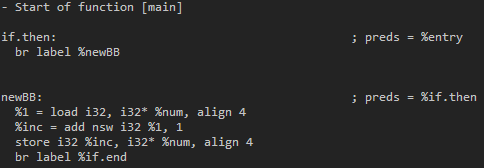
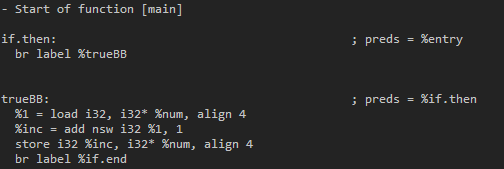
add

diff --git a/_posts/2020-08-28-15.md b/_posts/2020-08-28-15.md
@@ -30,54 +30,108 @@ int main()
 }
 ```
 
-여기서 저번에 만든 출력 path를 이용하여 basicblock을 살펴보면
+여기서 저번에 만든 출력 path를 이용하여 BasicBlock을 살펴보면
 
 ![img](\images\15_01.png)
 
-다음과 같이 Entry/if.then/if.end 로 나뉘는 것을 볼 수 있다.
+다음과 같이 Entry/if.then/if.end의 BasicBlock으로 나뉘는 것을 볼 수 있다.
 
-이러한 코드를 opaque을 이용하여 control flow에 대한 난독화를 해 볼 것이다.
+이러한 코드에 opaque을 이용한 control flow 난독화를 적용하는 path를 만들어 볼 것이다.
 
 ### 1. 난독화하려는 방법
 
 ![img](\images\15_02.png)
 
-다음과 같이 항상 참인 결과가 나오는 간단한 Opaque Predicate Block을 만들고, 이 값이 true일때 원래의 basicblock으로 이동하게 한다.
+다음과 같이 항상 참인 결과가 나오는 간단한 Opaque Predicate Block을 만들고, 이 값이 true일때 원래의 BasicBlock으로 이동하게 한다.
 
-값이 false일때는 원래의 basicblock에서 변형된~(미정:연산자를 변형한/값을 1씩 더해준)~ instructions를 가진 의미 없는 가짜 basicblock을 수행하도록 한다.
+값이 false일때는 원래의 BasicBlock에서 변형된~(미정:연산자를 변형한/값을 1씩 더해준)~ instructions를 가진 의미 없는 가짜 BasicBlock을 수행하도록 한다.
 
-\+ 중간중간에 basicblock01->dump()과 같이 dump()를 통해 IR을 볼 수 있다! 이를 이용하면 디버깅처럼 쓸 수 있을 듯 하다.
+\+ 중간중간에 basicblock01->dump()과 같이 dump()를 통해 BasicBlock의 instruction들을 볼 수 있다! 이를 이용하면 디버깅처럼 쓸 수 있을 듯 하다.
 
 ### 2. 분기문 블럭 생성하여 연결하기
 
 코드를 간단하게 보기 위해 if.then블럭에 대해서만 실행되도록 한정해 두었다.
 
 ```cpp
-if(BB.getName()=="if.then"){
-      BasicBlock *firstBB = &BB;    //BasicBlock 클래스를 사용하기 위해 형변환해줌
+if (BB.getName() == "if.then") {
+  BasicBlock *ifthenBB = &BB;  // BasicBlock 클래스를 사용하기 위해 바꿔줌
 
-      BasicBlock::iterator toSplit = (BasicBlock::iterator)firstBB->getFirstNonPHIOrDbgOrLifetime();
-      // toSplit++;
-      BasicBlock *newBB = firstBB->splitBasicBlock(toSplit,"newBB");
+  BasicBlock::iterator splitPoint = (BasicBlock::iterator)ifthenBB->getFirstNonPHIOrDbgOrLifetime();
+  BasicBlock *trueBB = ifthenBB->splitBasicBlock(splitPoint, "trueBB");
 
-      firstBB->dump();
-      newBB->dump();
-      //출력
+  ifthenBB->dump();
+  trueBB->dump();
+  //출력
 }
 ```
 
-toSplit에 (PHINode, debug intrinsic, lifetime intrinsic를 제외한) 첫 번째 instruction을 가져와서, 이 instruction의 위치를 저장해둔다. 여기서 첫 번째 instruction은 아래 사진에서의 " %1 = load i32, i32\* %num, align 4 " 가 된다.
+splitPoint에 (PHINode, debug intrinsic, lifetime intrinsic를 제외한) 첫 번째 instruction을 가져와서, 이 instruction의 위치를 저장해둔다. 여기서 첫 번째 instruction은 아래 사진에서의 " %1 = load i32, i32\* %num, align 4 " 가 된다.
 
-그 후, splitBasicBlock(toSplit, "newBB")을 통해 이 해당 instruction 이후의 instruction들을 newBB라는 이름의 새로운 BasicBlock으로 저장한다.
-(이때 toSplit이 가리키는 instruction을 다른 것으로 바꾸고 싶다면, toSplit++을 통해 증가시키며 다음 instruction을 가리킬 수 있다.)
+그 후, splitBasicBlock(splitPoint, "trueBB")을 통해 이 해당 instruction 이후의 instruction들을 trueBB라는 이름의 새로운 BasicBlock으로 저장한다.
+(이때 splitPoint가 가리키는 instruction을 다른 것으로 바꾸고 싶다면, splitPoint++을 통해 증가시키며 다음 instruction을 가리킬 수 있다.)
 
 ![img](\images\15_03.png)
-코드를 실행시켜 결과를 보면, if.then BasicBlock이 다음과 같이 if.then과 newBB 두 부분으로 쪼개지고, 두 블럭들이 무조건 분기를 통해 연결된 것을 볼 수 있다.
+
+코드를 실행시켜 결과를 보면, if.then BasicBlock이 다음과 같이 if.then과 trueBB 두 부분으로 쪼개지고, 두 블럭들이 무조건 분기를 통해 연결된 것을 볼 수 있다.
 
 \+ getFirstNonPHIOrDbgOrLifetime()함수를 첫 번째 instruction을 가져올때 사용했는데, 왜 이 함수를 사용하는지 궁금하다. 그냥 첫 번째를 가져오면 안 되는건지? PHINode 이런건 뭘까?
 
 ### 3. 생성한 블럭의 조건문 변경하기
 
+Opaque 난독화를 위해서는 항상 참이 되는 조건문과, 이 조건문에 따라 true/false에 해당하는 BasicBlock으로 가게 하는 분기문이 필요하다. 이번 단계에서는 if.then블럭에 조건문과 분기문을 추가해 줄 것이다.
+
+```cpp
+if (BB.getName() == "if.then") { // if.then블럭에서만 난독화 진행
+  BasicBlock *ifthenBB = &BB;  // BasicBlock 클래스를 사용하기 위해 바꿔줌
+
+  BasicBlock::iterator splitPoint = (BasicBlock::iterator)ifthenBB->getFirstNonPHIOrDbgOrLifetime();
+  BasicBlock *trueBB = ifthenBB->splitBasicBlock(splitPoint, "trueBB");
+
+  errs() << "BEFORE\n";
+  ifthenBB->dump();
+
+  Value *LHS = ConstantInt::get(Type::getInt32Ty(F.getContext()), 1);
+  Value *RHS = ConstantInt::get(Type::getInt32Ty(F.getContext()), 1);
+  // 조건문의 양쪽 식을 만들어줌. 간단하게 양 변을 1로 설정
+
+  ICmpInst *condInstruction = new ICmpInst(ifthenBB->getFirstNonPHIOrDbgOrLifetime(), ICmpInst::ICMP_EQ, LHS, RHS, "newcond");  // 만든 양 변이 EQUAL한지를 판단하는 조건문 생성
+  BranchInst::Create(trueBB, trueBB, condInstruction, ifthenBB);  // 만든 조건문을 통해 분기문 생성하고, ifthenBB의 끝에 넣음
+
+  BasicBlock::iterator toRemove = ifthenBB->begin();
+  toRemove++;
+  Instruction *instToRemove = &(*toRemove);
+  instToRemove->dropAllReferences();
+  instToRemove->eraseFromParent();
+  // 기존의 무조건 분기를 삭제하고, 새로운 instruction들만 남김
+
+  errs() << "AFTER\n";
+  ifthenBB->dump();
+}
+```
+ICmpInst을 통해 int형의 자료들을 비교하는 조건문을 만들 수 있다. Predicate자리에 ICmpInst::ICMP_EQ을 넣어 LHS와 RHS가 같은지 비교하도록 하고, BranchInst를 통해 만든 조건문으로 분기를 생성한다. 아직 만든 BasicBlock이 없어 true일때와 false일때 모두 trueBB BasicBlock으로 분기하도록 하였다.
+
+(분기문을 넣는 과정에서 삽질을 많이 했는데, "Terminator found in the middle of a basic block!"라는 오류를 많이 봤었다. 지금 생각해보면 BasicBlock의 특징 중 하나가 분기가 하나씩만 존재한다는 것이었는데, 그래서 분기문이 BasicBlock의 Terminator라고 볼 수 있을 듯 하다. 코드를 짜 보면서 한 블럭에 분기를 두 개 이상 넣으면서 계속 이런 오류를 봤던 것 같다. 이런 오류가 뜬다면 BasicBlock에서 분기문을 살펴보면 좋을 듯 하다.)
+
+아무튼, 결과는 다음과 같이 나온다.
+
+![img](\images\15_04.png)
+
+if.then블럭이 제대로 된 분기문으로 변경된 것을 볼 수 있다.
+
+~이번 단계에서 너무 삽질을 많이 했다. 방법도 엄청 다양하고.. 타입 문제때문에 헤메기도 하고... Terminator오류도 계속 보니까 친근해짐...~
+
+\+ 추가로, 저번 글에 쓴 반복과 출력을 다른 방법으로 할 수도 있었다.
+
+```cpp
+for (BasicBlock::iterator IT = BB->begin(); IT != BB->end(); IT++) {
+  Instruction* I = &(*IT);
+  errs() << *I << "\n";
+}
+```
+
+위의 코드는 BasicBlock BB를 돌면서 instruction들을 출력해주는 코드로, 이런 식으로 쓸 수도 있었다.. 이게 나중에 쓰다 보니 더 직관적인 느낌...? 뭔가 이렇게 쓰는게 편하다
+
+### 4. 원본 BasicBlock을 변형하여 false에 연결하기
 <!-- References -->
 
-[Obfuscator-LLVM]: https://github.com/obfuscator-llvm/obfuscator "ollvm"
+[obfuscator-llvm]: https://github.com/obfuscator-llvm/obfuscator "ollvm"
